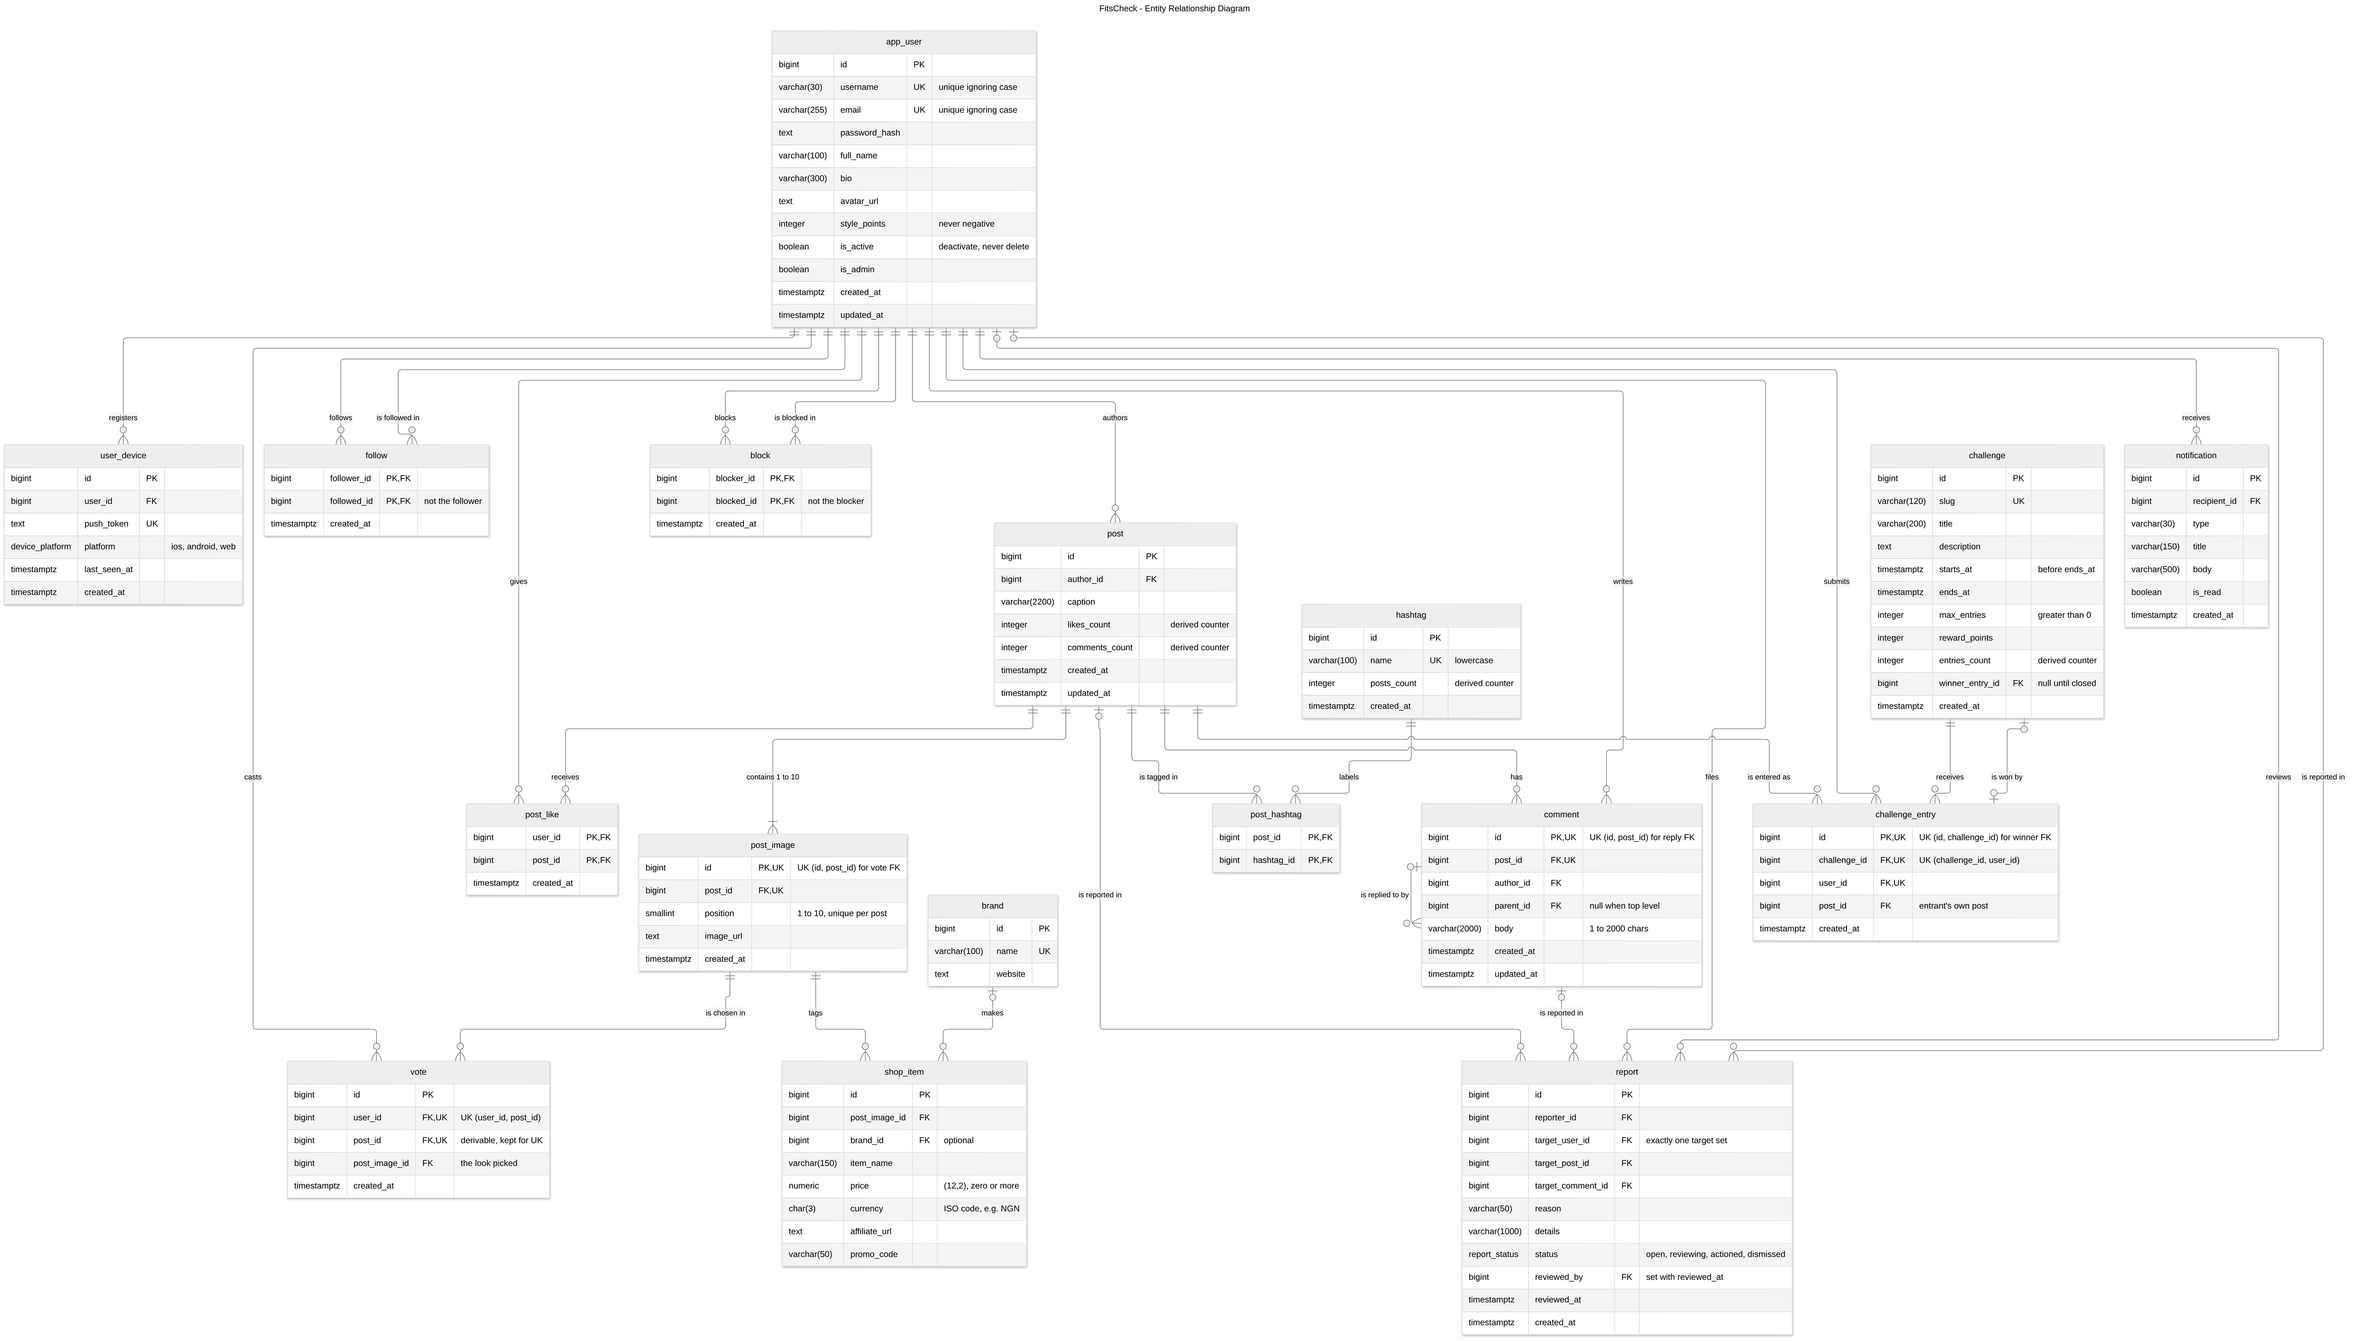
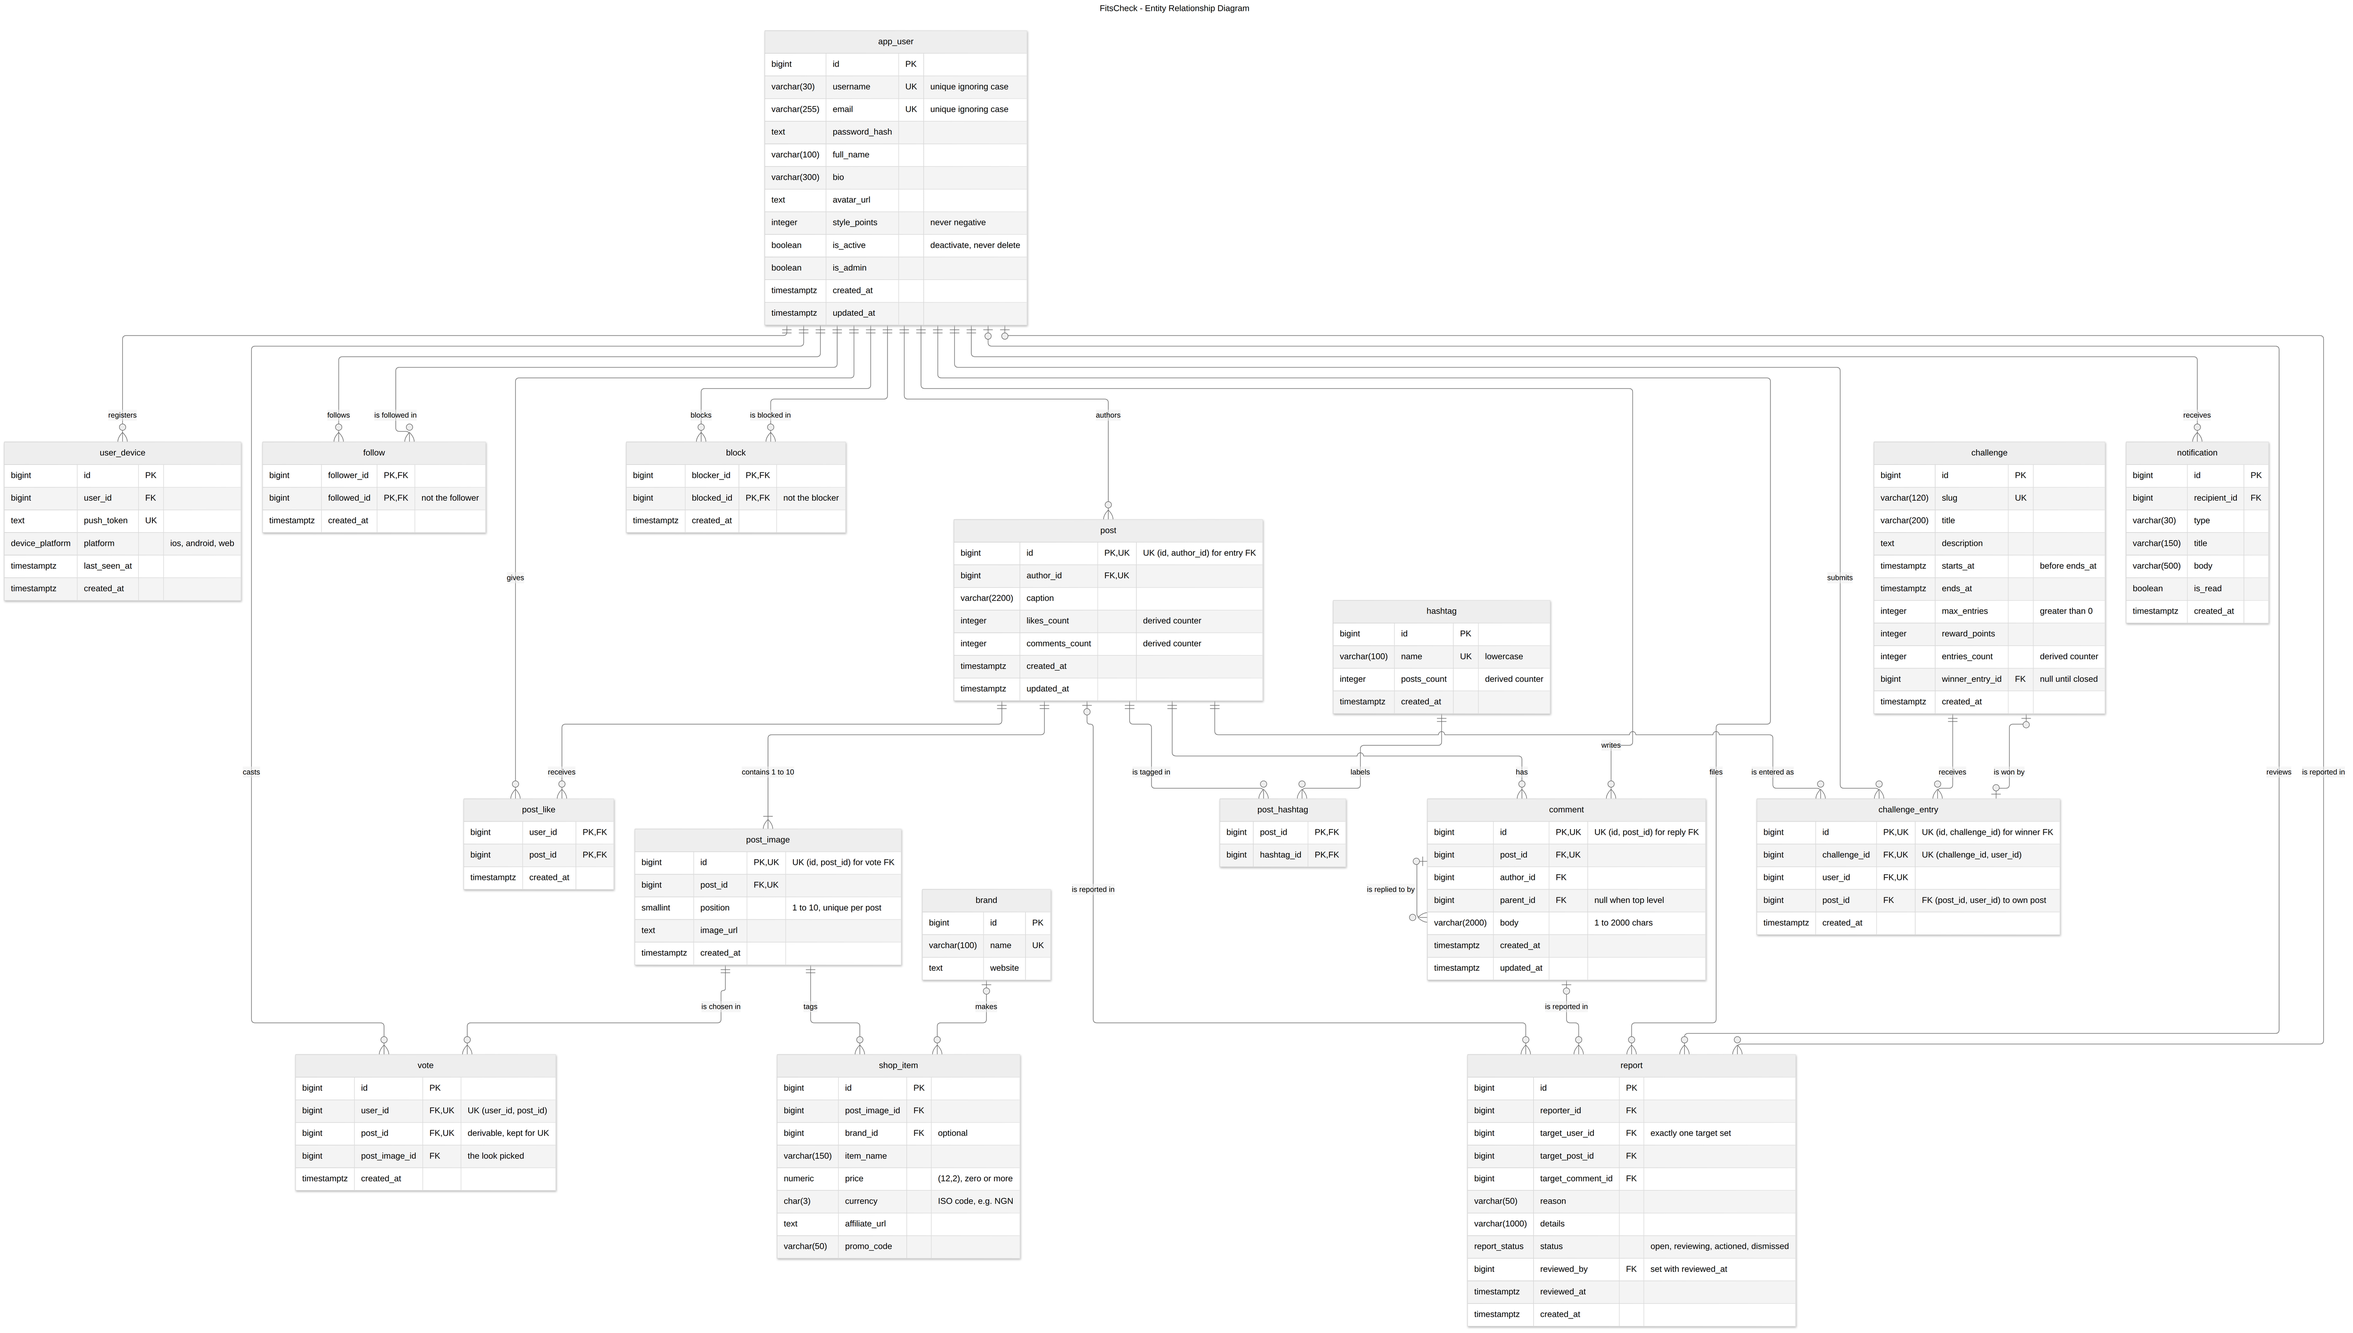
docs(p1): normalisation shows where the schema stops at 3NF and why
Derives the schema from one flat "post a fit" record through 1NF, 2NF
and 3NF, then tests every relation against BCNF. vote and
challenge_entry stay in 3NF so their one-per-user rules remain UNIQUE
constraints; a BCNF decomposition would lose those dependencies.
comment keeps post_id on replies for the same reason. Composite foreign
keys stop each redundant column from holding a wrong value.

The analysis showed BR-15 follows the same pattern as vote, so it is now
a composite foreign key instead of a trigger. Business rules and the ERD
are updated to match.

diff --git a/portfolio-1-database-design/normalisation.md b/portfolio-1-database-design/normalisation.md
@@ -1,0 +1,209 @@
+# FitsCheck Normalisation
+
+This document shows how the FitsCheck schema was derived by normalising one flat record up to 3NF and
+BCNF, where the final design deliberately stops short of BCNF, and where it deliberately stores
+redundant data.
+
+## 1. Why normalise
+
+Normalisation removes redundancy: the same fact stored in more than one place. Redundancy causes three
+kinds of anomaly.
+
+| Anomaly | Meaning | FitsCheck example in a flat table |
+|---|---|---|
+| Update | A fact is changed in one place but not the others | Zara's website is repeated on 5,000 shop items. Zara changes domain, 12 rows are missed, and Zara now has two websites. |
+| Insert | A fact cannot be recorded without an unrelated fact | The hashtag `#owambe` cannot exist until someone posts with it. |
+| Delete | Deleting one fact destroys another | Deleting the only post tagged `#agbada` also deletes the hashtag. |
+
+## 2. Terms used
+
+- **Functional dependency (FD), `X -> Y`**: knowing X fixes exactly one value of Y. `user_id -> username`
+  holds; `username -> post_id` does not, because a user has many posts.
+- **Candidate key**: a minimal set of columns that determines every other column. The chosen one is the
+  primary key; the others are enforced with `UNIQUE`.
+- **Prime attribute**: a column that is part of any candidate key.
+
+| Normal form | Rule |
+|---|---|
+| 1NF | Every cell holds one indivisible value; no repeating groups. |
+| 2NF | 1NF, and no non-key column depends on only part of a composite key. |
+| 3NF | 2NF, and no non-key column depends on another non-key column. Formally: for every FD `X -> A`, X is a superkey or A is prime. |
+| BCNF | For every FD `X -> A`, X is a superkey. The "or A is prime" exception is removed. |
+
+## 3. Starting point (0NF)
+
+The "post a fit" screen saved as one row, exactly as entered:
+
+| post_id | username | email | caption | images | hashtags | items |
+|---|---|---|---|---|---|---|
+| 501 | hope | hope@x.com | Sunday fit | a.jpg, b.jpg | #ootd, #lagos | Nike AF1 (Nike, nike.com) N85000; Linen shirt (Zara, zara.com) N30000 |
+
+Three cells contain lists. Finding "all posts tagged #lagos" or totalling item prices requires parsing
+strings, and no index can help.
+
+## 4. First normal form
+
+Each list becomes its own relation, one row per element, carrying the key of the post it belongs to.
+
+- `post(post_id, username, email, caption)`
+- `post_image(post_id, position, image_url)`
+- `post_hashtag(post_id, hashtag_name)`
+- `shop_item(post_id, image_position, item_name, brand_name, brand_website, price, currency)`
+
+The same reasoning applies to push notification tokens: a user with three phones would otherwise need
+`token1, token2, token3` columns, a repeating group, so devices became `user_device`.
+
+Prices also changed from the text `N85000` to `price NUMERIC(12,2) = 85000.00` and `currency = 'NGN'`.
+Strictly this is a domain (data type) correction rather than a normal-form rule, but it is needed for
+the same reason: a value hidden inside text cannot be compared, summed or constrained.
+
+## 5. Second normal form
+
+2NF only concerns relations with composite keys.
+
+**Example 1.** Suppose the junction relation also stored the tag's name:
+`post_hashtag(post_id, hashtag_id, hashtag_name)` with key `(post_id, hashtag_id)`.
+
+- FD `hashtag_id -> hashtag_name` depends on only half of the key: a partial dependency.
+- Effect: "lagos" is repeated in every row that uses the tag, and a tag cannot exist without a post.
+- Decomposition: `hashtag(id, name)` and `post_hashtag(post_id, hashtag_id)`.
+
+**Example 2.** `post_like(user_id, post_id, username)` with key `(user_id, post_id)` has the partial
+dependency `user_id -> username`. The username is removed; it already lives in `app_user`.
+
+## 6. Third normal form
+
+**Example 1.** `shop_item(id, item_name, brand_name, brand_website, price, currency)`.
+
+- `id -> brand_name` and `brand_name -> brand_website`, so the website depends on the item only through
+  the brand: a transitive dependency.
+- Effect: the Zara update anomaly in section 1.
+- Decomposition: `brand(id, name, website)` and `shop_item(id, brand_id, item_name, price, currency)`.
+
+**Example 2.** `post(post_id, author_id, author_username, author_email, caption)`.
+
+- `author_id -> author_username, author_email`, a transitive dependency through the author.
+- Decomposition: `post(id, author_id, caption)`; the user's details live only in `app_user`.
+
+## 7. BCNF, and where the design stops at 3NF
+
+Most final relations are in BCNF because their only determinants are their keys (see the table in
+section 10). Two relations share a pattern that is in 3NF but not BCNF, and one relation has a
+controlled redundancy. Each was kept on purpose.
+
+### 7.1 vote
+
+`vote(id, user_id, post_id, post_image_id)`
+
+FDs:
+- `id -> user_id, post_id, post_image_id`
+- `(user_id, post_id) -> post_image_id`, because a user casts one vote per post
+- `post_image_id -> post_id`, because every image belongs to exactly one post
+
+Candidate keys: `{id}`, `{user_id, post_id}` and `{user_id, post_image_id}` (the image fixes the post,
+so the pair determines everything).
+
+- **3NF holds.** In `post_image_id -> post_id`, the left side is not a superkey, but `post_id` is prime
+  (it is part of the key `{user_id, post_id}`), so the 3NF exception applies.
+- **BCNF fails.** `post_image_id` determines `post_id` but is not a superkey of `vote`.
+
+The BCNF decomposition would drop `post_id`, leaving `vote(user_id, post_image_id)`. That loses the
+rule "one vote per user per post": `(user_id, post_id) -> post_image_id` can no longer be checked inside
+one relation, so no `UNIQUE` constraint could enforce it and a trigger would be needed. This is a known
+result: a 3NF decomposition can always preserve every dependency, but a BCNF decomposition sometimes
+cannot.
+
+**Decision:** keep `vote` in 3NF. `UNIQUE (user_id, post_id)` enforces the rule declaratively, and the
+composite foreign key `(post_image_id, post_id) -> post_image (id, post_id)` makes it impossible for the
+redundant `post_id` to disagree with the image. The redundancy exists, but it cannot cause an anomaly.
+
+### 7.2 challenge_entry
+
+`challenge_entry(id, challenge_id, user_id, post_id)`. A user enters a challenge with one of their own
+posts (BR-15), so:
+
+- `post_id -> user_id`, because a post has exactly one author
+- `(challenge_id, user_id) -> post_id`, because a user enters each challenge once
+
+Candidate keys: `{id}`, `{challenge_id, user_id}` and `{challenge_id, post_id}`.
+
+The same pattern as `vote`: `post_id -> user_id` has a non-superkey on the left and a prime attribute
+on the right, so the relation is in 3NF but not BCNF. Dropping `user_id` would lose
+`UNIQUE (challenge_id, user_id)`, the "one entry per user" rule. `user_id` is therefore kept.
+
+This analysis also improved the design. BR-15 was originally enforced by a trigger checking that the
+post belongs to the entrant. Once `post_id -> user_id` is recognised as the same pattern as `vote`, the
+same tool applies: a composite foreign key `(post_id, user_id) -> post (id, author_id)`, backed by
+`UNIQUE (id, author_id)` on `post`, enforces it declaratively. The DDL uses the constraint instead of the
+trigger.
+
+### 7.3 comment
+
+`comment(id, post_id, author_id, parent_id, body)`. A reply must be on the same post as its parent
+(BR-13), so for replies `parent_id -> post_id`. Here `post_id` is not prime (the only candidate key is
+`{id}`), so for reply rows this is a transitive dependency `id -> parent_id -> post_id`, and strictly
+those rows break 3NF.
+
+`post_id` is kept because:
+- for top-level comments (`parent_id` is NULL) `post_id` is the only link to the post and cannot be
+  derived at all;
+- without it, listing a post's comments would need a recursive walk up every reply chain.
+
+The composite foreign key `(parent_id, post_id) -> comment (id, post_id)` guarantees a reply's `post_id`
+always equals its parent's, so the redundancy cannot drift.
+
+## 8. Design decisions that are not normal-form issues
+
+These are modelling choices, recorded here so they are not mistaken for normalisation.
+
+- **Report targets.** `report` has three nullable foreign keys, `target_user_id`, `target_post_id` and
+  `target_comment_id`, with `CHECK (num_nonnulls(...) = 1)`. The alternatives were one table per target
+  type (three near-identical tables) or a generic `target_type` + `target_id` pair. The generic pair
+  cannot carry a real foreign key, so the database could not stop a report pointing at a deleted or
+  non-existent row. Three typed foreign keys keep referential integrity.
+- **Statuses and platforms** are enum types (`report_status`, `device_platform`) rather than free
+  text, so invalid values are rejected by the database.
+
+## 9. Deliberate denormalisation
+
+`post.likes_count`, `post.comments_count`, `hashtag.posts_count` and `challenge.entries_count` are
+derived data: each can be computed with `COUNT(*)` over another table. Storing them is redundancy added
+on purpose (BR-20).
+
+- **Why.** Every feed card shows these counts. A 20-post feed would otherwise run 40 or more `COUNT(*)`
+  queries over tables with millions of rows on every app open.
+- **Risk.** The stored number can drift from the real count, which is an update anomaly.
+- **Control.** The counter is changed in the same transaction as the row it counts, using an atomic
+  `UPDATE ... SET likes_count = likes_count + 1`. A reconciliation query compares each stored counter
+  with the real count. Portfolio 3 shows the counter going wrong under concurrency without this, and
+  Portfolio 2 measures the speed difference between `COUNT(*)` and the stored counter.
+
+`app_user.style_points` is a running total of points awarded for challenge wins. It is maintained by
+the challenge-close transaction (BR-17).
+
+## 10. Final relations
+
+| Relation | Candidate keys | Non-trivial FDs beyond the keys | Highest NF |
+|---|---|---|---|
+| app_user | `{id}`, `{lower(username)}`, `{lower(email)}` | none | BCNF |
+| user_device | `{id}`, `{push_token}` | none | BCNF |
+| follow | `{follower_id, followed_id}` | none | BCNF |
+| block | `{blocker_id, blocked_id}` | none | BCNF |
+| post | `{id}` | none (counters are derived data, section 9) | BCNF |
+| post_image | `{id}`, `{post_id, position}` | none | BCNF |
+| brand | `{id}`, `{name}` | none | BCNF |
+| shop_item | `{id}` | none | BCNF |
+| hashtag | `{id}`, `{name}` | none | BCNF |
+| post_hashtag | `{post_id, hashtag_id}` | none | BCNF |
+| post_like | `{user_id, post_id}` | none | BCNF |
+| vote | `{id}`, `{user_id, post_id}`, `{user_id, post_image_id}` | `post_image_id -> post_id` | 3NF (7.1) |
+| comment | `{id}` | `parent_id -> post_id` for replies | 2NF; controlled (7.3) |
+| challenge | `{id}`, `{slug}` | none | BCNF |
+| challenge_entry | `{id}`, `{challenge_id, user_id}`, `{challenge_id, post_id}` | `post_id -> user_id` | 3NF (7.2) |
+| report | `{id}` | none | BCNF |
+| notification | `{id}` | none | BCNF |
+
+Every relation is at least in 3NF except `comment`, whose single exception applies only to replies and
+is held consistent by a composite foreign key. Where BCNF was not reached, the redundant column is kept
+so a business rule can be enforced as a `UNIQUE` constraint, and a composite foreign key prevents it
+from ever holding a wrong value.

diff --git a/portfolio-1-database-design/README.md b/portfolio-1-database-design/README.md
@@ -1,6 +1,6 @@
 # Portfolio 1: Database Design and Modelling
 
-**Case study:** FitsCheck. **Marks:** 7. **Status:** Not started.
+**Case study:** FitsCheck. **Marks:** 7. **Status:** In progress.
 
 **Brief requires:** chosen case study description, ER diagram, relational schema, keys, constraints, and normalisation explanation.
 
@@ -45,6 +45,15 @@ Design points visible in the diagram:
 - **Delete behaviour** is deliberate: deleting a post cascades to its images, likes, votes and
   comments, but user references restrict, because accounts are deactivated rather than deleted
   (BR-05).
+### 2.3 Normalisation
+[normalisation.md](normalisation.md) derives the schema from one flat "post a fit" record through
+1NF, 2NF and 3NF, then tests every relation against BCNF. Three relations deliberately keep a
+redundant column so a business rule can be a `UNIQUE` constraint: `vote` and `challenge_entry` are in
+3NF but not BCNF, and `comment` keeps `post_id` for replies. In each case a composite foreign key
+stops the redundant value from ever being wrong. The analysis also replaced a planned trigger (BR-15)
+with a declarative composite foreign key. Stored counters are deliberate denormalisation, justified
+and controlled.
+
 ## 3. How to run
 ## 4. How it was tested
 ## 5. Results and evidence

diff --git a/portfolio-1-database-design/business-rules.md b/portfolio-1-database-design/business-rules.md
@@ -42,7 +42,7 @@ and the level is a design decision:
 | ID | Rule | Level | Enforcement |
 |---|---|---|---|
 | BR-14 | A challenge has a unique slug, a start before its end, and a positive entry limit. | D | `UNIQUE (slug)`, `CHECK (starts_at < ends_at)`, `CHECK (max_entries > 0)` |
-| BR-15 | A user enters a challenge at most once, using one of their own posts. | D + T | `UNIQUE (challenge_id, user_id)`; trigger checks the post's author is the entrant |
+| BR-15 | A user enters a challenge at most once, using one of their own posts. | D | `UNIQUE (challenge_id, user_id)`; composite FK `(post_id, user_id) -> post (id, author_id)` (see normalisation.md, 7.2) |
 | BR-16 | Entries are accepted only while the challenge is open, and never beyond its entry limit. | X | Entry transaction (Portfolio 3, scenario T6) |
 | BR-17 | A challenge's winner must be one of that challenge's own entries, and is set only once the challenge has ended. Winning awards style points, and style points are never negative. | D + X | Composite FK `(winner_entry_id, id) -> challenge_entry (id, challenge_id)`; `CHECK (style_points >= 0)`; close transaction (T3) |
 

diff --git a/docs/AI_USE_LOG.md b/docs/AI_USE_LOG.md
@@ -13,3 +13,12 @@ A dated record of AI-assisted work on the portfolio. Summarised in `AI_USE_DECLA
 - My verification: I rejected the first auto-rendered layout as unreadable and asked for a cleaner
   tool. I then checked the final diagram against business-rules.md: all 17 tables, every
   relationship and its cardinality, and the composite keys on vote, comment and challenge.
+
+## 2026-10-13 - Portfolio 1 / normalisation
+- Tool: Claude Code
+- Used for: drafting normalisation.md from my business rules and ERD, including the functional
+  dependency and candidate key analysis for every relation.
+- Files touched: portfolio-1-database-design/normalisation.md, business-rules.md (BR-15),
+  diagrams/fitscheck-erd.mmd and .png, portfolio-1-database-design/README.md
+- My verification: I reviewed the FD analysis, in particular the 3NF versus BCNF reasoning for vote
+  and challenge_entry, and reworded it.
